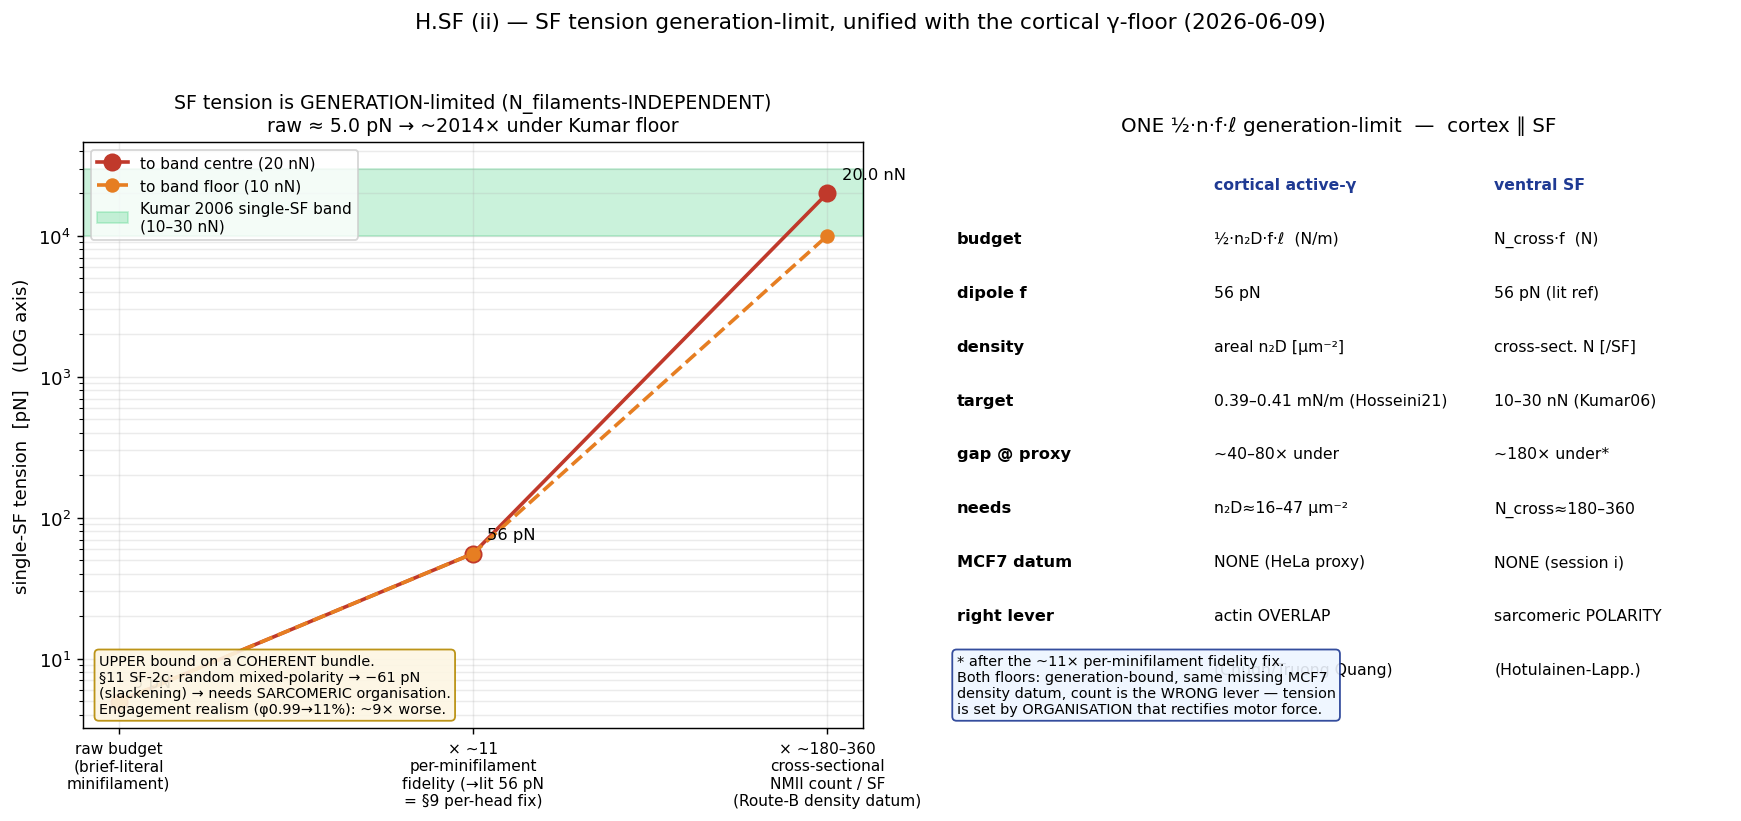
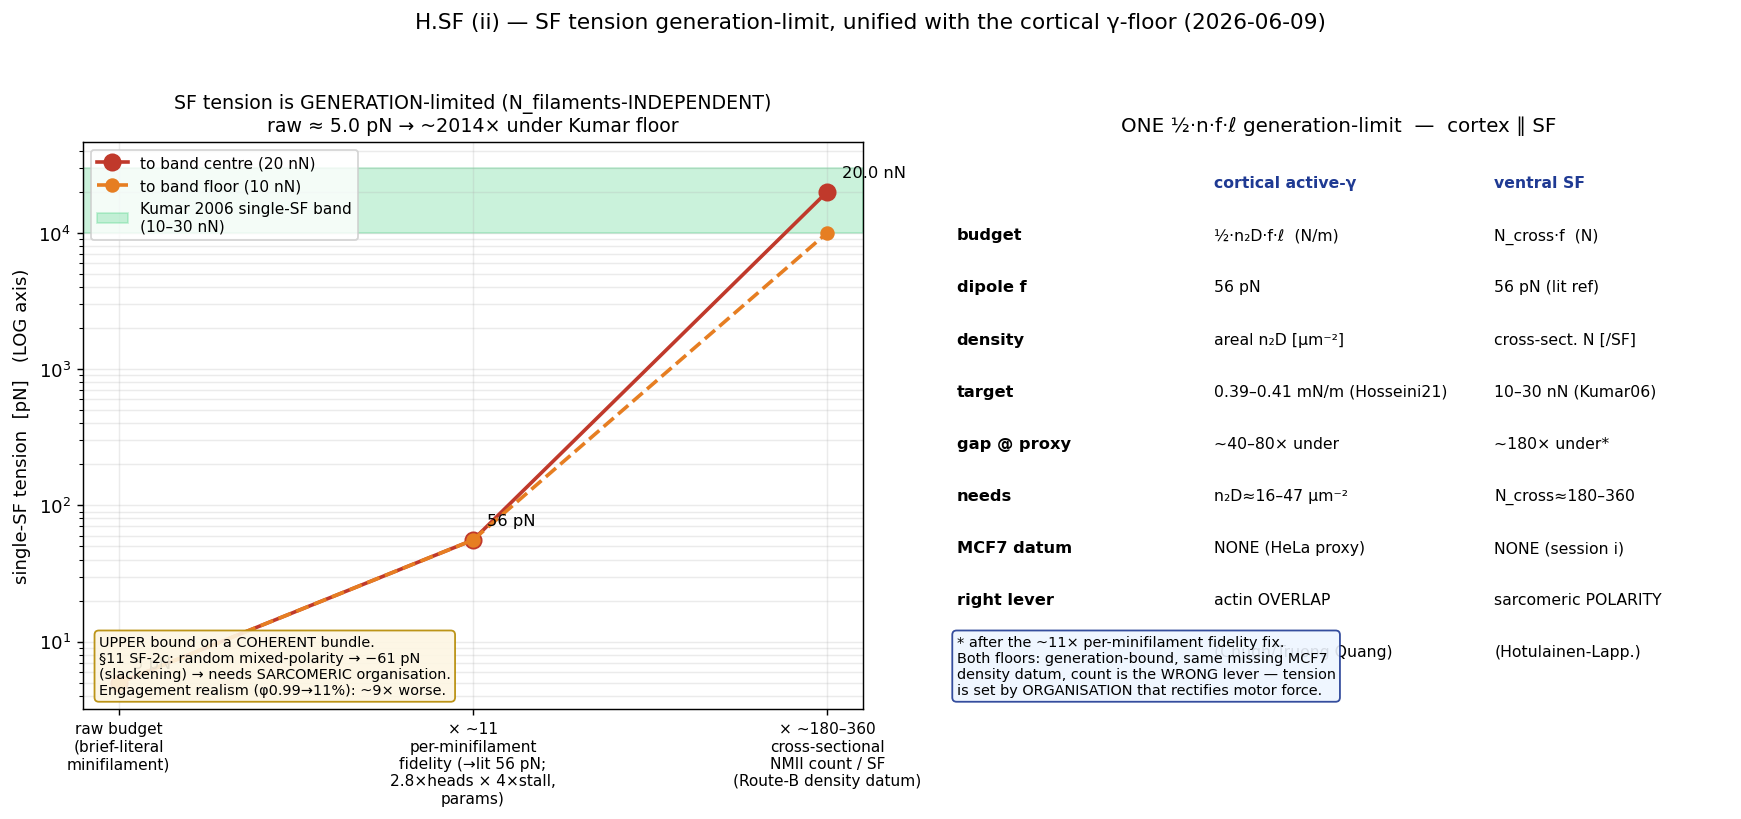
H.SF (ii): precision fix — 11x fidelity is a PARAMETER factor, not the §9 delivery fix
The ~11x per-minifilament fidelity = (28/10 heads) × (2/0.5 pN per-head) = 2.8× × 4×,
both parameter choices. The quasi-static budget uses F_stall directly (not k·r), so it
already assumes the §9 continuous_stroke delivery fix — the 11x is the brief-vs-literature
minifilament parameterisation, same magnitude/category as but a distinct mechanism from
the §9 per-head recovery. Corrected across the budget script, doc table/§3, figure label,
and the consistency test (now asserts the exact heads×per-head factorisation).

diff --git a/ffn_sim/scripts/h7_basal_sf_force_budget.py b/ffn_sim/scripts/h7_basal_sf_force_budget.py
@@ -68,8 +68,12 @@ KUMAR_BAND_N = (10.0e-9, 30.0e-9)
 # per-head stall, the quantity in the cortical active-gel envelope γ=½·n2D·f·ℓ
 # (H7_ACTIVE_GAMMA_SYNTHESIS_2026-06-09). This is the cross-line consistency anchor:
 # the basal SF budget below uses the BRIEF-LITERAL minifilament (10 heads × 0.5 pN),
-# which is ~11× SMALLER than this literature minifilament — exactly the per-head /
-# stiffness fidelity the cortical line corrected in the §9 continuous_stroke redesign.
+# which is ~11× SMALLER than this literature minifilament. That ~11× factors cleanly as
+# (28/10 heads-per-side) × (2/0.5 pN per-head stall) = ~2.8× × ~4× — both are PARAMETER
+# choices, NOT a delivery/stiffness issue: the quasi-static budget already uses F_stall
+# directly (not the soft-k cap k·r), i.e. it already assumes the §9 continuous_stroke
+# delivery fix. So the ~11× is the brief-vs-literature minifilament PARAMETERISATION, of
+# the same magnitude/category as (but distinct mechanism from) the §9 per-head recovery.
 LIT_HEADS_PER_SIDE = 28           # Billington 2013 (NMII-IIA ~28-30 heads/side)
 LIT_F_PER_HEAD_N = 2.0e-12        # 2 pN/head one-sided dipole (Chugh 2017 × Billington 2013)
 LIT_F_MINIFILAMENT_N = LIT_HEADS_PER_SIDE * LIT_F_PER_HEAD_N   # ≈ 56 pN
@@ -133,9 +137,10 @@ def decompose_generation_gap(budget: dict) -> dict:
     Factors (all assumptions stated, none tuned to pass):
       * ``per_minifilament_fidelity`` — the brief-literal minifilament (10 heads ×
         0.5 pN ≈ 5 pN) vs the LITERATURE minifilament (28 heads × 2 pN ≈ 56 pN) the
-        cortical γ-floor uses. ~11×. This is the SAME per-head/stiffness correction the
-        cortical line executed in the §9 continuous_stroke redesign — i.e. ~11× of the
-        SF gap is a cross-line parameter-fidelity item already being closed elsewhere.
+        cortical γ-floor uses. ~11× = (28/10 heads) × (2/0.5 pN per-head) = ~2.8× × ~4×,
+        both PARAMETER choices (NOT delivery: the budget uses F_stall directly, already
+        assuming the §9 fix). Same magnitude/category as the cortical §9 per-head
+        recovery, distinct mechanism — a cross-line parameter-fidelity item.
       * ``cross_sectional_nmii_count`` — after the per-minifilament fix, the residual
         gap = how many LITERATURE minifilaments must act coherently across ONE SF
         cross-section to reach the Kumar band centre (Kumar/f_lit). This is the
@@ -257,9 +262,9 @@ def main() -> int:
           f"~{b['mesoscale_force_factor_needed_to_band_centre']:.0f}x (Route B)")
     d = rep["decomposition"]
     print("  --- gap decomposition (labeled, N-independent) ---")
-    print(f"    per-minifilament fidelity (brief 5pN → lit {d['lit_minifilament_N']*1e12:.0f}pN): "
+    print(f"    per-minifilament fidelity (brief 10×0.5pN → lit 28×2pN={d['lit_minifilament_N']*1e12:.0f}pN): "
           f"~{d['per_minifilament_fidelity_factor']:.0f}x "
-          f"(= the §9 cortical per-head fix)")
+          f"(=2.8× heads × 4× per-head stall; params, budget already assumes §9 delivery)")
     print(f"    cross-sectional NMII count to band centre: "
           f"~{d['cross_sectional_nmii_count_to_band_centre']:.0f} lit-minifilaments/SF "
           f"(= Route-B MCF7 density datum, session (i))")

diff --git a/ffn_sim/tests/test_sf_force_budget_decomposition.py b/ffn_sim/tests/test_sf_force_budget_decomposition.py
@@ -73,11 +73,19 @@ def test_decomposition_product_recovers_raw_gap(fb):
     )
 
 
-def test_per_minifilament_fidelity_is_the_cortical_per_head_fix(fb):
-    """Brief 5 pN → lit 56 pN ≈ 11× — the same order as the §9 per-head correction."""
+def test_per_minifilament_fidelity_is_a_parameter_factor(fb):
+    """Brief 5 pN → lit 56 pN ≈ 11× = (28/10 heads) × (2/0.5 pN/head) = 2.8× × 4×.
+
+    Both are PARAMETER choices (the budget uses F_stall directly, already assuming the §9
+    delivery fix) — same order as, but a distinct mechanism from, the §9 per-head recovery.
+    """
     budget = _synthetic_budget(fb)
     d = fb.decompose_generation_gap(budget)
-    assert d["per_minifilament_fidelity_factor"] == pytest.approx(11.3, abs=0.5)
+    assert d["per_minifilament_fidelity_factor"] == pytest.approx(11.2, abs=0.3)
+    # the factor is exactly (lit heads × lit per-head) / (brief heads × brief per-head)
+    heads_ratio = fb.LIT_HEADS_PER_SIDE / budget["n_heads_per_side"]
+    perhead_ratio = fb.LIT_F_PER_HEAD_N / budget["F_stall_per_head_N"]
+    assert d["per_minifilament_fidelity_factor"] == pytest.approx(heads_ratio * perhead_ratio, rel=1e-9)
 
 
 def test_cross_sectional_count_is_order_hundreds(fb):

diff --git a/ffn_sim/scripts/h7_sf_generation_limit_vis.py b/ffn_sim/scripts/h7_sf_generation_limit_vis.py
@@ -58,7 +58,7 @@ def make_figure(rep: dict):
 
     # ---- LEFT: SF waterfall ----
     stages = ["raw budget\n(brief-literal\nminifilament)",
-              "× ~%.0f\nper-minifilament\nfidelity (→lit 56 pN\n= §9 per-head fix)" % fid,
+              "× ~%.0f\nper-minifilament\nfidelity (→lit 56 pN;\n2.8×heads × 4×stall,\nparams)" % fid,
               "× ~%.0f–%.0f\ncross-sectional\nNMII count / SF\n(Route-B density datum)" % (cnt_lo, cnt_hi)]
     xs = [0, 1, 2]
     vals_lo = [raw_pN, after_fid, after_cnt_lo]

diff --git a/ffn_sim/docs/v2_audit/SF_GENERATION_LIMIT_SYNTHESIS_2026-06-09.md b/ffn_sim/docs/v2_audit/SF_GENERATION_LIMIT_SYNTHESIS_2026-06-09.md
@@ -60,7 +60,7 @@ multiplier is attributable, not opaque. **All factors are evaluated at the UPPER
 | factor | value | physical meaning / source | lever |
 |---|---|---|---|
 | raw single-SF tension | ≈ 5.0 pN | φ 0.99 × 10 heads × 0.5 pN (brief literal D5); NO mesoscale scaling, NO continuous_stroke | — |
-| **per-minifilament fidelity** | **~11×** | brief-literal minifilament (10 heads × 0.5 pN ≈ 5 pN) → **literature dipole 56 pN** (28 heads × 2 pN; Billington 2013 × Chugh 2017) = the SAME minifilament the cortical γ-floor uses | the §9 per-head / cross-bridge-stiffness fix (already executed on the cortical line) |
+| **per-minifilament fidelity** | **~11×** = ~2.8× × ~4× | brief-literal minifilament (10 heads × 0.5 pN ≈ 5 pN) → **literature dipole 56 pN** (28 heads × 2 pN; Billington 2013 × Chugh 2017). The 11× = (28/10 heads) × (2/0.5 pN per-head) — both **parameter** choices, NOT delivery (the budget uses F_stall directly, already assuming the §9 fix) | brief-vs-literature minifilament parameterisation (same category/magnitude as the §9 per-head recovery, distinct mechanism) |
 | **cross-sectional NMII count** | **~180× (floor) / ~360× (centre)** | after the per-minifilament fix, how many **literature minifilaments must act coherently across ONE SF cross-section** to reach Kumar = Route-B native:effective factor | the **missing MCF7 SF-NMII density datum** (session (i)) |
 | engagement realism | **~9× WORSE** | budget uses upper φ≈0.99; the fine-grained cortex realises only ~11% (geometric/availability limited, `h7_engagement_saturation.json`) | structural (availability), not a credit |
 
@@ -68,8 +68,10 @@ Consistency: per-minifilament fidelity × cross-sectional count == the raw facto
 (11.2 × 360 ≈ 4028 to centre; 11.2 × 180 ≈ 2014 to floor); locked by
 `test_sf_force_budget_decomposition.py`.
 
-**Reading.** Of the 2014×, only ~11× is a parameter-fidelity choice the project is already
-correcting elsewhere; the dominant ~180× is a *count/density* quantity with **no MCF7 datum**.
+**Reading.** Of the 2014×, only ~11× is a brief-vs-literature minifilament *parameter* choice
+(2.8× heads-per-minifilament + 4× per-head stall — the budget already assumes ideal §9-style
+F_stall delivery, so this is NOT the delivery/stiffness gap); the dominant ~180× is a
+*count/density* quantity with **no MCF7 datum**.
 A Kumar SF needs **~180–360 literature minifilaments coherent per cross-section** — an
 order-of-magnitude that session (i) must verify against native ventral-SF NMII content; it is
 plausibly high (a NMII stack is ~10–30 minifilaments; ~180–360 implies ~6–12 stacks bundled
